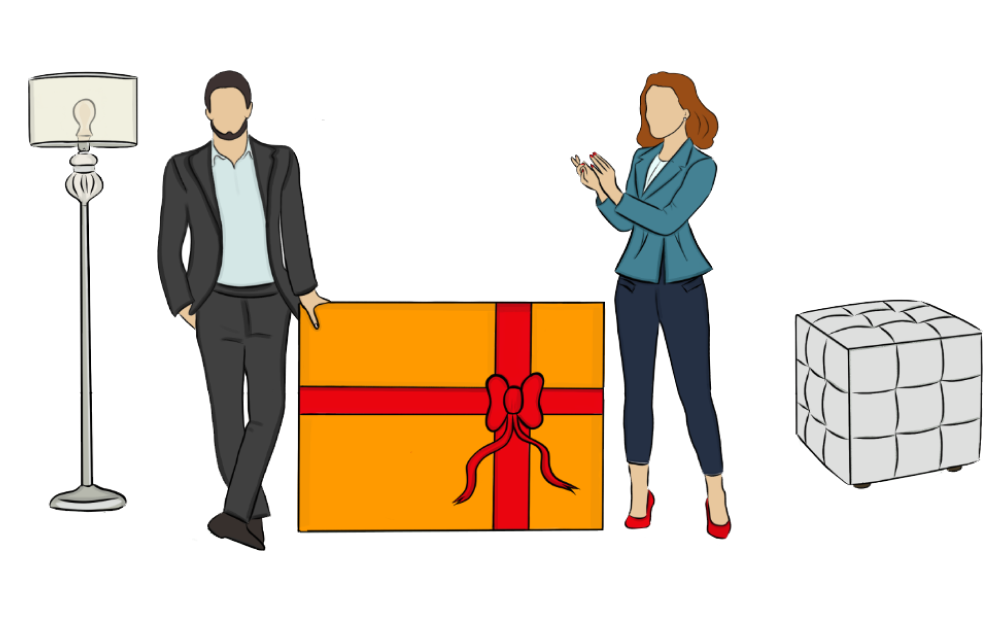
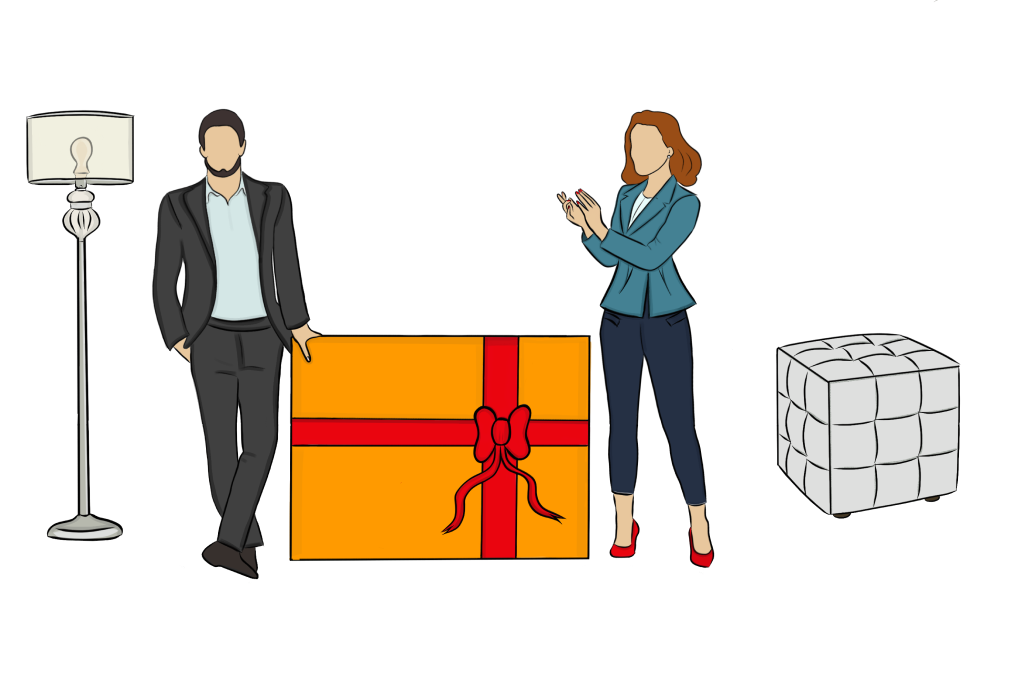
заменены картинки на картинки более лучшего качества

Changed region(s): [[0.0, 0.0919, 0.9851, 0.8887]]

diff --git a/index.html b/index.html
@@ -221,7 +221,7 @@
         </section>
         <section class="advantages" id="advantages">
             <div class="container">
-                <h1 class="advantages__title">НАШИ ПРЕИМУЩЕСТВA</h1>
+                <h1 class="advantages__title">Наши преимущества</h1>
                 <ul class="advantages__list">
                     <li class="advantages__item">
                         <img src="img/icons/2.png" alt="" class="advantages__item-icon">
@@ -345,7 +345,29 @@
                     </label>
                     <button class="form__modal-button">Отправить</button>
                 </form>
-            <div>
+            </div>
+        </div>
+        <div class="calculate-modal hidden">
+            <div class="calculate-modal__window">
+                <h5 class="modal__title">Рассчитать стоимость</h5>
+                <p class="modal__text">Введите нужные вам параметры</p>
+                <div class="modal__gradient" style="top:155px"></div>
+                <form class="form__modal">
+                    <div class="form__modal-row">
+                        <label class="form__modal-calculate-label">
+                            <p class="form__modal-text">Высота</p>
+                            <input type="number" class="form__modal-input" id="modal-y" min="30" max="250" value="30">
+                        </label>
+                        <span class="form__modal-devider">X</span>
+                        <label class="form__modal-calculate-label">
+                            <p class="form__modal-text">Ширина</p>
+                            <input type="number" class="form__modal-input" id="modal-x" min="30" max="250" value="30">
+                        </label>
+                    </div>
+                    <button class="form__modal-compute" id="compute">Рассчитать</button>
+                </form>
+                <div class="compute-result-block">Итого: <div id="compute-result">0</div> рублей</div>
+            </div>
         </div>
     </div>
     <script src="js/modal.js"></script>

diff --git a/css/blocks/modal.css b/css/blocks/modal.css
@@ -1,4 +1,4 @@
-.modal {
+.modal,.calculate-modal {
     position: fixed;
     top: 0;
     right: 0;
@@ -12,10 +12,16 @@
 .modal.hidden {
     position: inherit;
 }
+.calculate-modal.hidden {
+    position: inherit;
+}
 .modal.hidden .modal__window {
     right: -3000px;
 }
-.modal__window {
+.calculate-modal.hidden .calculate-modal__window {
+    right: -3000px;
+}
+.modal__window,.calculate-modal__window {
     position: absolute;
     right: 50%;
     top: 50%;
@@ -113,4 +119,48 @@
     font-size: 22px;
     line-height: 26px;
     color: #FFFFFF;
+}
+.compute-result-block {
+    font-family: Open Sans;
+    font-style: normal;
+    font-weight: 300;
+    font-size: 24px;
+    line-height: 33px;
+    color: #494949;
+
+    display: flex;
+    align-items: center;
+}
+#compute-result {
+    font-family: Open Sans;
+    font-style: normal;
+    font-weight: 300;
+    font-size: 48px;
+    line-height: 65px;
+    margin: 0 7px;
+}
+#compute {
+    width: 184px;
+    height: 62px;
+    background: linear-gradient(259.42deg, #F891FA -18.99%, #95B7EB 174.81%);
+    box-shadow: 4px 4px 20px #D0B2F5;
+    border-radius: 67px;
+    margin-bottom: 85px;
+
+    font-family: Roboto;
+    font-style: normal;
+    font-weight: bold;
+    font-size: 22px;
+    line-height: 26px;
+    color:#FFFFFF;
+}
+.form__modal-text {
+    font-family: Open Sans;
+    font-style: normal;
+    font-weight: 300;
+    font-size: 24px;
+    line-height: 33px;
+    color: #494949;
+    margin-bottom: 10px;
+    margin-top: 0;
 }

diff --git a/js/calculate.js b/js/calculate.js
@@ -1,3 +1,9 @@
+// Modal inputs & button
+const heightInput = document.getElementById('modal-y');
+const widthInput = document.getElementById('modal-x');
+const computeButton = document.getElementById('compute');
+const resultBlock = document.getElementById('compute-result');
+
 // Const
 const calculateModalElem = document.querySelector('.calculate-modal');
 
@@ -30,11 +36,24 @@ function calculate(width, height) {
 }
 
 // Modal func
-function calculateModal() {
+function toggleCalculateModal() {
     calculateModalElem.classList.toggle('hidden');
-    return 0;
+}
+
+// Value func
+function setValuesInBlock(e) {
+    e.preventDefault();
+
+    let height = heightInput.value;
+    let width = widthInput.value;
+
+    let result = calculate(width, height);
+    resultBlock.textContent = result;
 }
 
 
 
 // Event listeners
+computeButton.addEventListener('click', e => setValuesInBlock(e));
+calculateModalElem.addEventListener('click', e=> e.target === this ? e.target.toggle('hidden') : '');
+

diff --git a/js/modal.js b/js/modal.js
@@ -19,7 +19,6 @@ function modality(selectors) {
 }
 function toggleModal() {
     modal.classList.toggle('hidden');
-    console.log(312321312132)
 }
 
 modality(['#call_modal_1','#call_modal_2','#call_modal_3','#call_modal_4','#call_modal_5'])

diff --git a/css/blocks/support.css b/css/blocks/support.css
@@ -5,7 +5,7 @@
     display: flex;
 }
 .support__item {
-    background-color: #FEF4FF;
+    background-color: #EAE0F7;
     height: 380px;
     max-width: 360px;
     margin-right: 77px;
